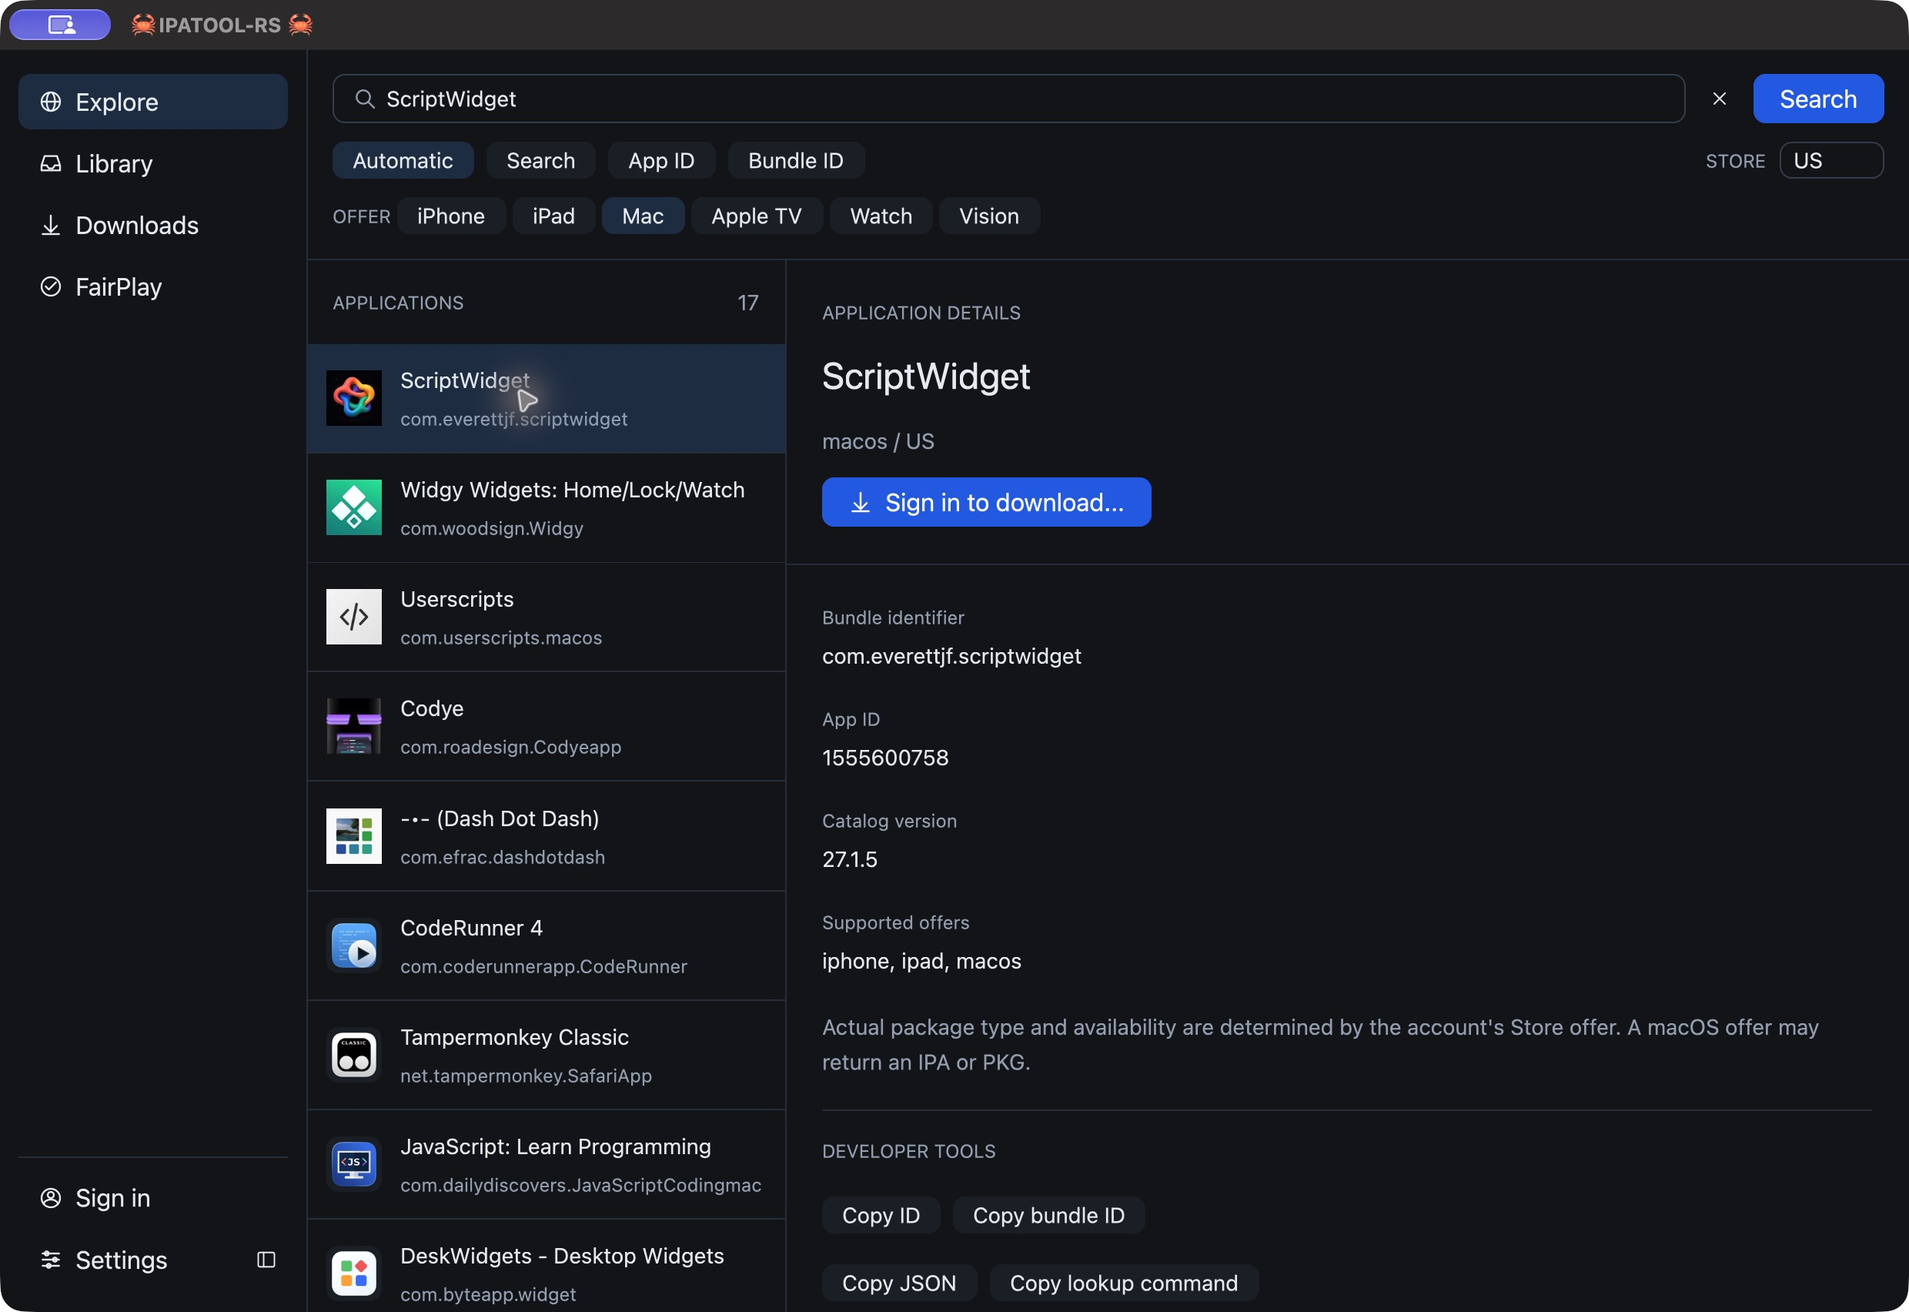
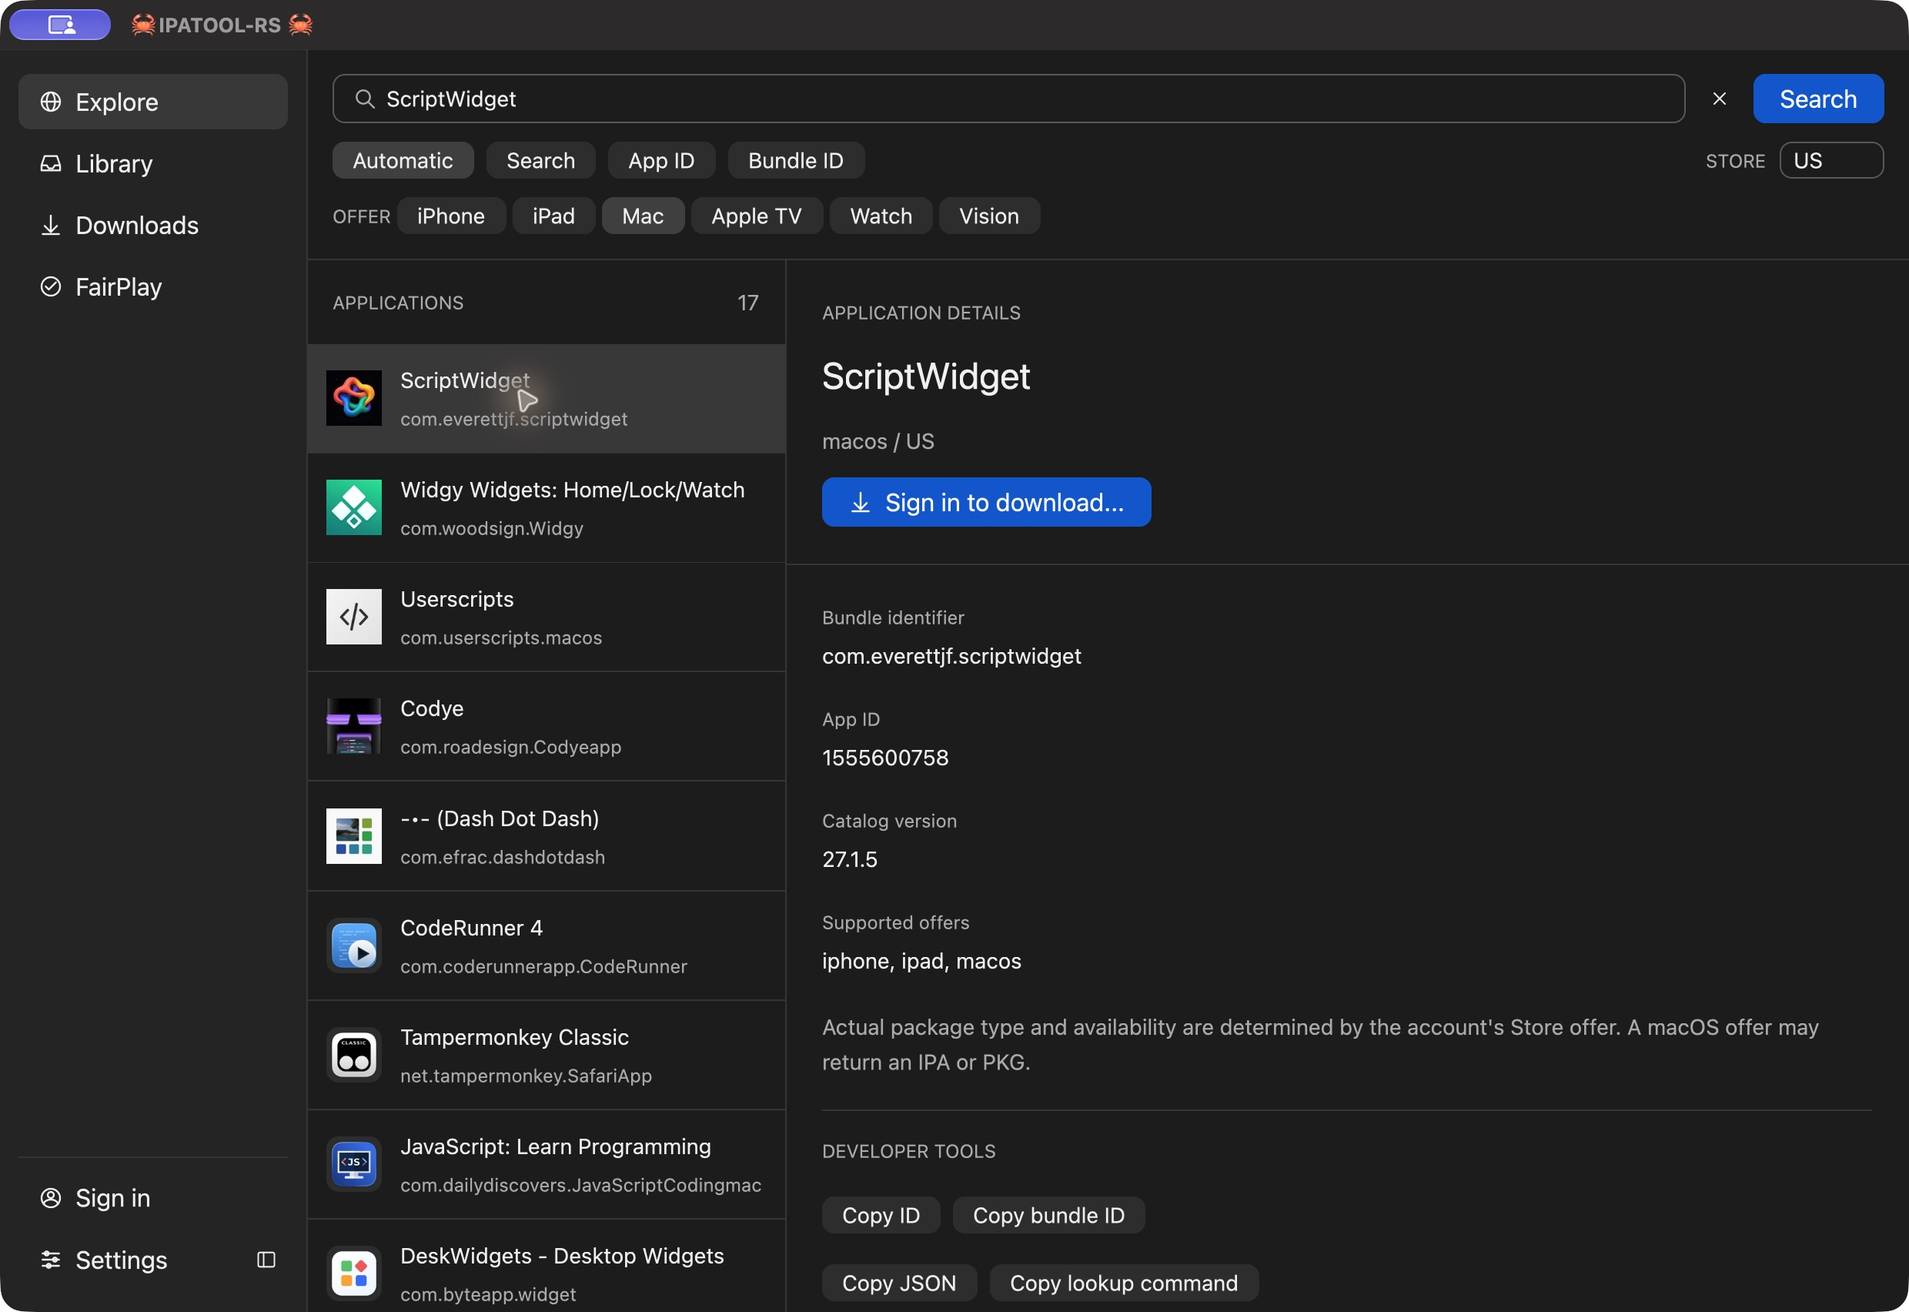
Use neutral graphite surfaces for the dark desktop

Changed region(s): [[0.1552, 0.2488, 0.4347, 0.3421], [0.0, 0.0311, 0.2484, 0.1555], [0.3105, 0.1244, 0.3726, 0.1866]]

diff --git a/src/gui/appearance.rs b/src/gui/appearance.rs
@@ -1,4 +1,4 @@
-//! One focused dark palette for the desktop preview.
+//! Neutral, layered dark surfaces with blue reserved for interactive emphasis.
 
 use gpui::App;
 use gpui_component::{Theme, ThemeMode};
@@ -7,27 +7,50 @@ use std::rc::Rc;
 pub fn configure(cx: &mut App) {
     let theme = Theme::global_mut(cx);
     let config = Rc::make_mut(&mut theme.dark_theme);
-    config.name = "ipatool Dark".into();
+    config.name = "ipatool Graphite".into();
     config.radius = Some(8);
     config.radius_lg = Some(12);
     let colors = &mut config.colors;
-    colors.background = Some("#111318".into());
-    colors.foreground = Some("#e8ecf2".into());
-    colors.muted_foreground = Some("#9ca8ba".into());
-    colors.secondary = Some("#1c222c".into());
+    // Use equal RGB channels for surfaces so the workspace has no blue cast.
+    colors.background = Some("#1e1e1e".into());
+    colors.foreground = Some("#f2f2f2".into());
+    colors.muted_foreground = Some("#b3b3b3".into());
+    colors.secondary = Some("#333333".into());
     colors.secondary_foreground = colors.foreground.clone();
-    colors.secondary_hover = Some("#293341".into());
-    colors.secondary_active = Some("#20324d".into());
-    colors.accent = Some("#20324d".into());
+    colors.secondary_hover = Some("#3d3d3d".into());
+    colors.secondary_active = Some("#484848".into());
+    colors.accent = Some("#404040".into());
     colors.accent_foreground = colors.foreground.clone();
-    colors.border = Some("#2b3443".into());
-    colors.input = Some("#3b4658".into());
-    colors.primary = Some("#2563eb".into());
-    colors.primary_hover = Some("#1d4ed8".into());
-    colors.primary_active = Some("#1e40af".into());
+    colors.border = Some("#3d3d3d".into());
+    colors.input = Some("#636363".into());
+    colors.sidebar = Some("#282828".into());
+    colors.sidebar_foreground = colors.foreground.clone();
+    colors.sidebar_border = colors.border.clone();
+    colors.sidebar_accent = colors.accent.clone();
+    colors.sidebar_accent_foreground = colors.foreground.clone();
+    colors.popover = Some("#2b2b2b".into());
+    colors.popover_foreground = colors.foreground.clone();
+    colors.muted = colors.secondary.clone();
+    colors.list = colors.background.clone();
+    colors.list_head = colors.sidebar.clone();
+    colors.list_even = colors.background.clone();
+    colors.list_hover = colors.secondary.clone();
+    colors.list_active = colors.accent.clone();
+    colors.list_active_border = colors.input.clone();
+    colors.selection = Some("#4b4b4b".into());
+    colors.scrollbar = Some("#00000000".into());
+    colors.scrollbar_thumb = Some("#666666".into());
+    colors.scrollbar_thumb_hover = Some("#808080".into());
+    colors.title_bar = colors.sidebar.clone();
+    colors.title_bar_border = colors.border.clone();
+    colors.primary = Some("#0b61d8".into());
+    colors.primary_hover = Some("#0a58c4".into());
+    colors.primary_active = Some("#094db0".into());
     colors.primary_foreground = Some("#ffffff".into());
-    colors.ring = Some("#60a5fa".into());
+    colors.ring = Some("#64a6ff".into());
+    colors.caret = colors.foreground.clone();
+    colors.progress_bar = colors.primary.clone();
     colors.danger = Some("#fb7185".into());
-    colors.danger_foreground = Some("#111318".into());
+    colors.danger_foreground = colors.background.clone();
     Theme::change(ThemeMode::Dark, None, cx);
 }

diff --git a/src/gui/views.rs b/src/gui/views.rs
@@ -159,6 +159,7 @@ impl DesktopWindow {
         window: &Window,
         cx: &mut Context<Self>,
     ) -> Dialog {
+        let dialog = dialog.bg(cx.theme().popover);
         let output = self.settings_output.clone();
         let body = v_flex().gap_4()
             .child(label("DEFAULT DOWNLOAD DIRECTORY", cx))
@@ -337,7 +338,13 @@ impl DesktopWindow {
                                     } else {
                                         cx.theme().background
                                     })
-                                    .hover(|style| style.bg(cx.theme().accent))
+                                    .hover(|style| {
+                                        style.bg(if selected == Some(index) {
+                                            cx.theme().accent
+                                        } else {
+                                            cx.theme().secondary
+                                        })
+                                    })
                                     .child(
                                         div()
                                             .flex_shrink_0()
@@ -628,6 +635,7 @@ impl DesktopWindow {
         window: &mut Window,
         cx: &mut Context<Self>,
     ) -> Dialog {
+        let dialog = dialog.bg(cx.theme().popover);
         let busy = self.account_form.busy;
         let verifying = self.account_form.verifying;
         let unlocking = self.account_form.unlocking_saved;
@@ -773,6 +781,7 @@ impl DesktopWindow {
         window: &mut Window,
         cx: &mut Context<Self>,
     ) -> Dialog {
+        let dialog = dialog.bg(cx.theme().popover);
         let Some(form) = &self.download_form else {
             return dialog.title("Download");
         };
@@ -851,7 +860,7 @@ impl DesktopWindow {
             content = content.child(v_flex().p_4().gap_2().child(div().text_color(cx.theme().danger).child(error.clone()))
                 .child(Button::new("recover-history").label("Preserve unreadable history and start a new journal...").disabled(self.active.is_some()).on_click(cx.listener(|_this, _, window, cx| {
                     let weak = cx.entity().downgrade();
-                    window.open_dialog(cx, move |dialog, _, _| { let weak = weak.clone(); dialog.title("Recover task history?").child("The previous journal will be moved to a uniquely named backup. No downloaded files or private materials will be deleted.").confirm().on_ok(move |_, _, cx| { let _ = weak.update(cx, |this, cx| {
+                    window.open_dialog(cx, move |dialog, _, cx| { let weak = weak.clone(); dialog.bg(cx.theme().popover).title("Recover task history?").child("The previous journal will be moved to a uniquely named backup. No downloaded files or private materials will be deleted.").confirm().on_ok(move |_, _, cx| { let _ = weak.update(cx, |this, cx| {
                         let path = this.session.directory().join("desktop-tasks.json");
                         match Journal::preserve_existing(&path) {
                             Ok(_) => { this.journal_error = None; this.persist_history(); }

diff --git a/src/gui/actions.rs b/src/gui/actions.rs
@@ -501,9 +501,9 @@ impl DesktopWindow {
             return;
         }
         let view = cx.entity().downgrade();
-        window.open_dialog(cx, move |dialog, _, _| {
+        window.open_dialog(cx, move |dialog, _, cx| {
             let view = view.clone();
-            dialog.title("Remove saved credentials?").child("This removes the local account and KBSync cache. It does not revoke this device through Apple's account service or delete downloaded files.")
+            dialog.bg(cx.theme().popover).title("Remove saved credentials?").child("This removes the local account and KBSync cache. It does not revoke this device through Apple's account service or delete downloaded files.")
                 .confirm().on_ok(move |_, window, cx| {
                     let _ = view.update(cx, |this, cx| {
                         this.account_form.busy = true; let session = Arc::clone(&this.session);
@@ -1313,10 +1313,10 @@ impl DesktopWindow {
         }
         self.quit_prompt_open = true;
         let view = cx.entity().downgrade();
-        window.open_dialog(cx, move |dialog, _, _| {
+        window.open_dialog(cx, move |dialog, _, cx| {
             let view = view.clone();
             let close = view.clone();
-            dialog.title("Stop work and quit?")
+            dialog.bg(cx.theme().popover).title("Stop work and quit?")
                 .child("Queued tasks will be cancelled. Running work will stop at a safe boundary before the application quits. Output publication and outstanding system credential prompts may need to finish first.")
                 .confirm().on_ok(move |_, window, cx| {
                     let _ = view.update(cx, |this, cx| {

diff --git a/src/gui/main.rs b/src/gui/main.rs
@@ -589,6 +589,7 @@ impl Render for DesktopWindow {
                 .into_any_element()
         };
         let sidebar = v_flex()
+            .bg(cx.theme().sidebar)
             .w(px(if expanded { 200. } else { 56. }))
             .flex_shrink_0()
             .h_full()

diff --git a/docs/GUI_TEST_MATRIX.md b/docs/GUI_TEST_MATRIX.md
@@ -23,7 +23,7 @@ account/private-data gates. All work remains on `codex/gpui-catalog` / PR #7.
 | Four pages, stable primary actions | Actual normal/narrow captures; populated Library and task-state native fixture walkthroughs; rendered account/download/FairPlay/detail footer bounds tests. | Native portable desktop interaction and private processing remain separate gates. |
 | Public search, automatic/manual identity modes | Catalog recognition/override fixtures; 20-schedule stale-response/clear controller test; live Mac / US search returned 17 results at both window sizes. Final signed release repeated public search after the shell refinement. | No remaining account-free search gate identified. |
 | Keyboard list selection and download entry | Native Down/Enter/cancel passed. Final signed release verified Tab/Shift-Tab, Enter on mode/download/Cancel buttons, restored download-button focus, Command-F, Command-Comma, Escape and Command-W. Challenge subscriptions/focus and secret-input replacement pass controller tests and native synthetic walkthroughs. | Full screen-reader support remains an upstream gap; portable keyboard interaction is unverified. |
-| Dark appearance and compact navigation | One dark palette and a full-height workspace, without a top toolbar. Account/settings/sidebar controls are anchored at the bottom of navigation; narrow/collapsed windows retain a 56-point icon rail with tooltips. Native signed-release footer actions and collapse/restore passed. White primary-button text has approximately 5.17:1 contrast. | Historical light captures and earlier toolbar layouts are superseded; platform rendering remains a separate gate. |
+| Dark appearance and compact navigation | One neutral graphite palette and a full-height workspace, without a top toolbar. Sidebar/dialog surfaces are brighter than the content, selections and hover states are gray, and primary actions/focus retain blue. Account/settings/sidebar controls are anchored at the bottom of navigation; narrow/collapsed windows retain a 56-point icon rail with tooltips. Native signed-release search, empty account/settings sheets, FairPlay navigation and collapse/restore passed. White primary-button text has approximately 5.65:1 contrast; secondary text on selected rows has 4.95:1. | Historical light, blue-tinted dark captures and earlier toolbar layouts are superseded; platform rendering remains a separate gate. The GPUI palette is an opaque approximation, not native dynamic AppKit material. |
 | Login, verification, unlock, reauthentication | Shared protocol and GPUI fixtures; native fake-password/code focus/submit flow and same-account queue resumption passed. Code challenge cannot be replaced by Load saved account. | Dedicated native passphrase-only unlock and primary-action continuation passed with synthetic services; controlled-account live check remains last. |
 | Library pagination/filter/offer and selection | Native six-page fixture: filter, next page with no matches, clear, Home/End selection and scroll passed. Native version 119 selection/metadata passed; all 20 IDs visible. Narrow footer test includes 200 version choices and an error. | Latest populated 900×650 Library capture passed; portable native interaction remains open. |
 | Immutable queued request and bounded progress | Native version-100 pause followed by independent Latest enqueue; same-account continuation ran first once, cancellation acknowledged, second completed. Original version/license choices remained separate. | Real Store/package processing gate remains open. |

diff --git a/docs/screenshots/README.md b/docs/screenshots/README.md
@@ -6,7 +6,7 @@ for public browsing and empty-form validation. The separate
 [fixture captures](fixtures/README.md) show the same native controls with
 explicitly synthetic account, Library, version, and download services. They are
 not live account evidence. The refined dark and collapsed captures show the
-current `🦀IPATOOL-RS 🦀` native title. The refined dark capture is the current
+current `🦀IPATOOL-RS 🦀` native title and neutral graphite palette. The refined dark capture is the current
 visual reference. Earlier images are
 historical interaction evidence and may show superseded controls. Light/system
 themes are no longer supported; subsequent interaction changes require refreshing
@@ -14,8 +14,10 @@ affected captures.
 
 | Capture | Observed state | Evidence limit |
 | --- | --- | --- |
-| [Explore, refined dark](explore-refined-dark.png) | Signed release app without a top toolbar; account/settings/sidebar controls sit at the bottom of navigation. Full-height details and 17 real public Mac / US results. | Public browsing only; no account operation. |
+| [Explore, refined dark](explore-refined-dark.png) | Signed release app with neutral gray content, brighter sidebar, gray selections and blue primary actions; no top toolbar. Full-height details and 17 real public Mac / US results. | Public browsing only; no account operation. |
 | [Collapsed sidebar](explore-footer-collapsed.png) | The same signed release app retains navigation, account, settings and expand controls in a narrow icon rail. | Public browsing and empty account/settings sheets only; no account request. |
+| [Sign in, graphite](sign-in-graphite.png) | The current neutral gray dialog is raised above the content, with inset inputs and a blue primary action. | Empty fields; no authentication request or credential access. |
+| [FairPlay, graphite](fairplay-graphite.png) | Current neutral surfaces, gray mode selection and blue primary action. | No private input was selected and no processing ran. |
 | [Explore, dark](explore-dark.png) | Public ScriptWidget search, Mac / US, 17 results; real public artwork; keyboard-selected Widgy details; fixed sign-in/download action. | No account or download was exercised. |
 | [Explore release build, dark](explore-release-dark.png) | Signed release app, real public Mac / US search and artwork; metadata scrolled to the end with all copy actions visible inside the window. | Launch and public browsing evidence only. |
 | [Historical light appearance](explore-light.png) | Superseded appearance option, captured before the dark-only scope decision. | Historical evidence; no longer a supported mode. |

diff --git a/docs/PORTING.md b/docs/PORTING.md
@@ -328,6 +328,20 @@ and GUI-test suites (453/45/32), three strict Clippy configurations, formatting
 and debug/release signed bundle checks passed again for this display-only change.
 Bundle identifiers, executable names and CLI commands retain their existing names.
 
+The next appearance refinement replaces blue-tinted backgrounds, controls,
+dividers and large selection fills with neutral graphite gray. Content uses
+`#1e1e1e`, navigation `#282828`, and raised dialogs/popovers `#2b2b2b`; primary
+actions and focus retain blue. This is an opaque GPUI approximation inspired by
+[Apple's Dark Mode guidance](https://developer.apple.com/design/human-interface-guidelines/dark-mode),
+not dynamic AppKit vibrancy. Hovered results remain distinct from selected rows.
+Calculated contrast is 5.65:1 for white primary-button text, 6.75:1 for secondary
+dialog text, and 4.95:1 for secondary text on selected rows. All 453/45/32 local
+tests, three strict Clippy configurations, formatting and debug/release signed
+bundle builds passed again. Native release checks covered real public search
+(17 Mac/US results), empty sign-in/settings dialogs, FairPlay navigation and
+sidebar collapse/restore. Current normal/collapsed, sign-in and FairPlay captures
+are in the native gallery; older captures retain their historical palettes.
+
 The local feature remains a source-only experimental preview. Its public search,
 controller fixtures and synthetic native walkthroughs do not close live account,
 Keychain approval, signed-bundle Store/JIT, real IPA/PKG, or private FairPlay gates.

diff --git a/docs/screenshots/fixtures/README.md b/docs/screenshots/fixtures/README.md
@@ -7,10 +7,12 @@ versions, downloads, and progress are synthetic. The screenshots demonstrate
 rendered controls and observed interaction, not successful Apple authentication,
 real package transfers, or private FairPlay compatibility. See
 [the harness instructions](../../GUI_FIXTURE_PREVIEW.md).
+These interaction captures predate the neutral graphite palette; use the
+[current native gallery](../README.md) for appearance review.
 
 | Capture | Observed interaction |
 | --- | --- |
-| [Refined narrow shell](explore-refined-narrow.png) | The current full-height dark shell fits 900×650 with an icon rail and bottom account/settings actions; only the synthetic fixture banner remains above the workspace. |
+| [Refined narrow shell](explore-refined-narrow.png) | The full-height shell fits 900×650 with an icon rail and bottom account/settings actions; only the synthetic fixture banner remains above the workspace. |
 | [Advanced FairPlay after toolbar removal](fairplay-footer-narrow.png) | After scrolling to the end, the entire Build version field remains visible while Add collection task stays fixed. No collection was submitted or private input selected. |
 | [Refined narrow Library](library-refined-narrow.png) | Six-page synthetic Library retains aligned selection and a visible download action at the minimum window size. |
 | [Saved-account unlock](unlock-narrow.png) | A failed encrypted-store load opens a focused passphrase-only sheet with Unlock and continue; clicking the primary action with the fixture passphrase returned to the workspace. |

diff --git a/README.md b/README.md
@@ -146,8 +146,10 @@ Build and run the optional native desktop from source:
 cargo run --locked --features gui --bin ipatool-gui
 ```
 
-The desktop is titled **🦀IPATOOL-RS 🦀** and uses a focused dark theme and a
-full-height workspace. Account, settings and sidebar controls sit at the bottom
+The desktop is titled **🦀IPATOOL-RS 🦀** and uses a macOS-inspired graphite dark
+palette: neutral gray surfaces, a brighter sidebar and dialogs, gray selections,
+and blue primary actions and focus rings. It has a full-height workspace.
+Account, settings and sidebar controls sit at the bottom
 of the aligned navigation;
 narrow or collapsed windows use a compact icon rail. It supports public search,
 lookup by App ID or bundle identifier, six
